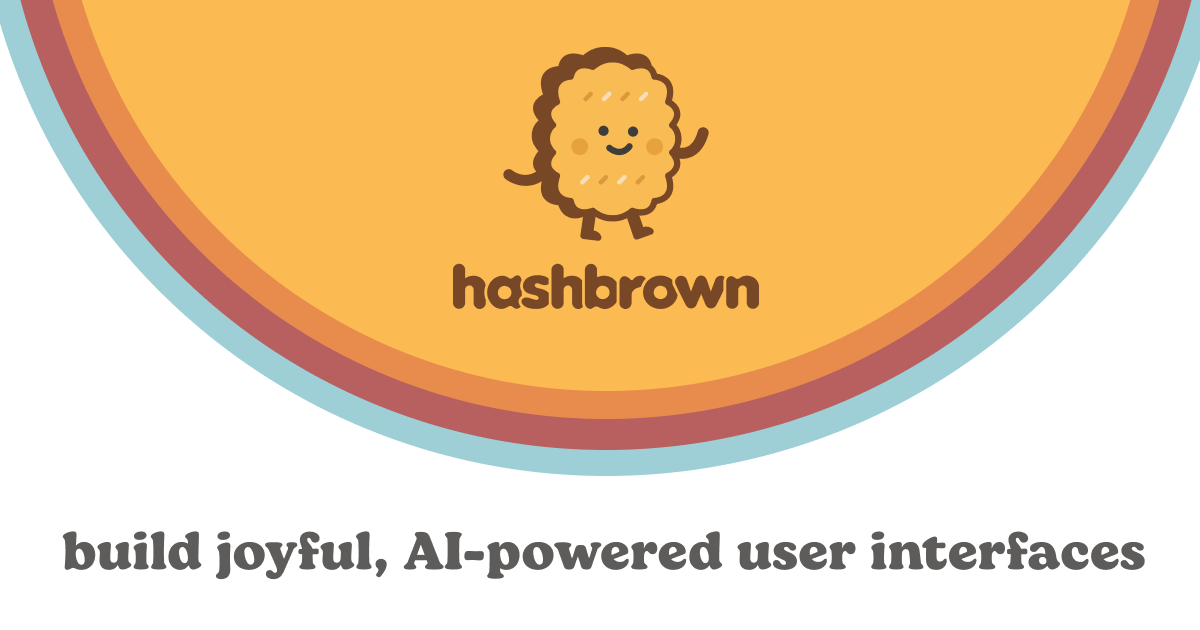
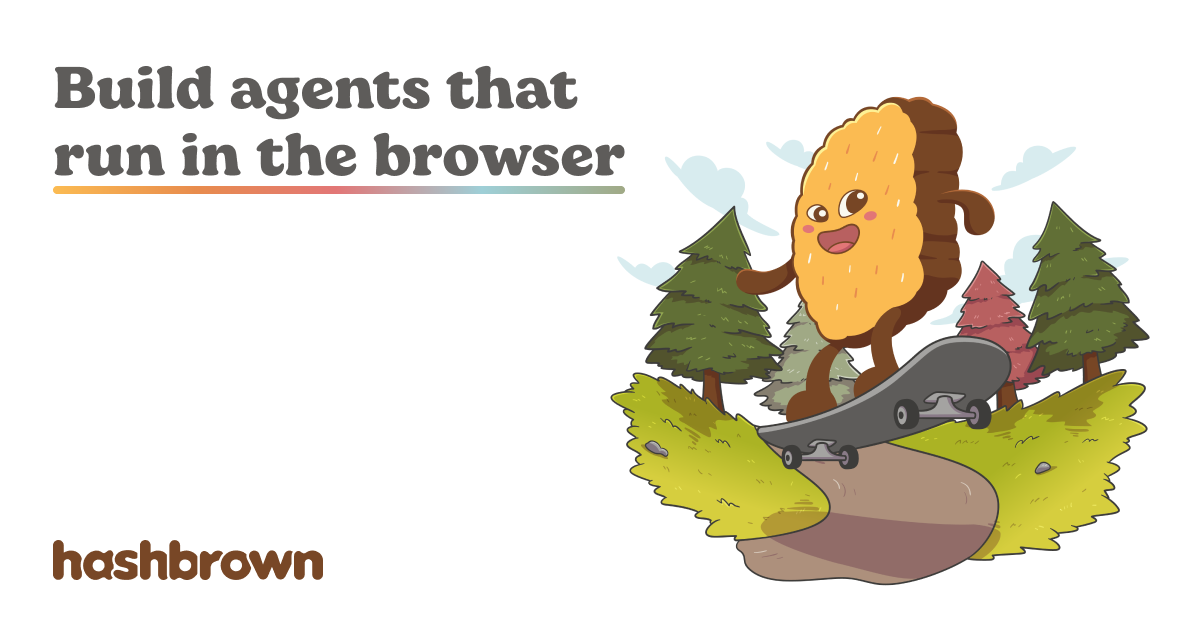
chore: Update the Readme with v0.4 messaging (#441)
## PR Checklist

Please check if your PR fulfills the following requirements:

- [ ] The commit message follows our guidelines:
https://github.com/liveloveapp/hashbrown/blob/main/CONTRIBUTING.md#commit
- [ ] Tests for the changes have been added (for bug fixes / features)
- [ ] Documentation has been added / updated (for bug fixes / features)

## PR Type

What kind of change does this PR introduce?

<!-- Please check the one that applies to this PR using "x". -->

```
[ ] Bugfix
[ ] Feature
[ ] Code style update (formatting, local variables)
[ ] Refactoring (no functional changes, no api changes)
[ ] Build related changes
[ ] CI related changes
[ ] Documentation content changes
[ ] Other... Please describe:
```

## What is the current behavior?

<!-- Please describe the current behavior that you are modifying, or
link to a relevant issue. -->

Closes #

## What is the new behavior?

## Does this PR introduce a breaking change?

```
[ ] Yes
[ ] No
```

<!-- If this PR contains a breaking change, please describe the impact
and migration path for existing applications below. -->

## Other information

diff --git a/README.md b/README.md
@@ -1,10 +1,10 @@
 <h1 align="center">Hashbrown - Build Joyful, AI-Powered User Interfaces</h1>
 
 <p align="center">
-  <img src="www/public/image/logo/brand-mark.svg" alt="Hashbrown Logo" width="144px" height="136px"/>
+  <img src="www/analog/public/image/logo/brand-mark.svg" alt="Hashbrown Logo" width="144px" height="136px"/>
   <br>
-  <em>Hashbrown is an open-source framework for building AI-powered user interfaces
-    <br />that converse with users, dynamically reorganize, and even code themselves.</em>
+  <em>Hashbrown is an open-source framework for 
+    <br />building agents that run in the browser.</em>
   <br>
 </p>
 
@@ -27,7 +27,7 @@
   </a>
 </p>
 
-[What is Hashbrown](#what-is-hashbrown) | [Installation](#installation) | [Getting Started](#getting-started) | [Supported LLM Providers](#supported-llm-providers) | [Features](#features) | [Walkthroughs](#walkthroughs) | [Core Team](#core-team) | [Workshops and Consulting](#workshops-and-consulting)
+[What is Hashbrown](#what-is-hashbrown) | [Installation](#installation) | [Getting Started](#getting-started) | [Supported LLM Providers](#supported-llm-providers) | [Features](#features) | [Walkthroughs](#walkthroughs) | [Core Team](#core-team) | [Consulting](#consulting)
 
 <!-- TODO: embed "marketing" video here when finished-->
 
@@ -35,7 +35,7 @@
 
 ## What Is Hashbrown
 
-Hashbrown is a set of core and framework-specific packages for the UI along with LLM SDK wrappers for Node backends. Hashbrown makes it easy to embed intelligence in individual features and to orchestrate and dynamically update whole applications based on real-time, natural language inputs.
+Hashbrown is a set of core and framework-specific packages for the UI along with LLM SDK wrappers for Node backends. Hashbrown makes it easy to embed intelligence in your React or Angular components. Use Hashbrown to generate user interfaces, turn natural language into structured data, and predict your user's next action.
 
 ## Installation
 
@@ -65,15 +65,11 @@ They include:
 
 - [OpenAI](https://hashbrown.dev/docs/angular/platform/openai)
 - [Azure OpenAI](https://hashbrown.dev/docs/angular/platform/azure)
+- [Anthropic](https://hashbrown.dev/docs/angular/platform/anthropic)
 - [Amazon Bedrock](https://hashbrown.dev/docs/angular/platform/bedrock)
 - [Ollama](https://hashbrown.dev/docs/angular/platform/ollama)
 - [Google Gemini](https://hashbrown.dev/docs/angular/platform/google)
 - [Writer](https://hashbrown.dev/docs/angular/platform/writer)
-
-Coming soon:
-
-- Anthropic
-- Vercel
 
 Note that any model supported by a vendor's SDK will generally be usable via Hashbrown. That said, not all models (especially some older, smaller ones) will be able to handle the full feature set of Hashbrown.
 
@@ -220,39 +216,6 @@ npm install
 npx nx serve kitchen-sink-server && npx nx serve kitchen-sink-angular
 ```
 
-### Cloudflare Pages Deployments
-
-- Finance sample: Functions live in `samples/finance/angular/functions` (auto-detected by Wrangler). Deploy the Angular app plus functions with `npx nx run finance-angular:deploy`, which uses `samples/finance/angular/wrangler.toml`. Set `OPENAI_API_KEY` in the `hashbrown-finance` Pages project; run `npx nx run finance-cloudflare:generate-data` if you want fresh mock ingredient data.
-- Smart Home sample: Functions live in `samples/smart-home/angular/functions` (auto-detected by Wrangler). Deploy the Angular app plus functions with `npx nx run smart-home-angular:deploy`, which uses `samples/smart-home/angular/wrangler.toml`. Set `OPENAI_API_KEY` in the `hashbrown-smart-home` Pages project.
-- Docs site (`www/analog`): `npx nx run www:deploy` builds the site and deploys to Cloudflare Pages using the root `wrangler.toml` (project `hashbrown-www`). Ensure any required secrets like `OPENAI_API_KEY` are configured in the Pages environment.
-
-Setting secrets with Wrangler CLI (Cloudflare Pages):
-
-```shell
-# authenticate once
-npx wrangler login
-# add the OpenAI key to a Pages project (repeat per project)
-npx wrangler pages secret put OPENAI_API_KEY --project-name hashbrown-finance --environment production
-# set it for preview deploys too
-npx wrangler pages secret put OPENAI_API_KEY --project-name hashbrown-finance --environment preview
-```
-
-Use the appropriate `--project-name` (`hashbrown-smart-home`, `hashbrown-www`, etc.) for the app you are deploying. The command prompts for the secret value and stores it for that Pages project.
-Repeat the `--environment production`/`--environment preview` commands for each project so both production and preview builds can access the secret.
-
-## Hashbrown.dev
-
-Run the documentation website locally:
-
-```shell
-nvm use
-npm install
-# If needed, generate build dependencies (i.e. docs from code)
-npx nx run www:collect-docs
-# Run the server
-npx nx serve www
-```
-
 ## Core Team
 
 `hashbrown` is a community effort led by Mike Ryan, Brian Love and Ben Taylor.
@@ -261,11 +224,9 @@ npx nx serve www
 
 hashbrown is a community-driven project. Read our [contributing guidelines](./CONTRIBUTING.md) on how to get involved.
 
-## Workshops and Consulting
+## Consulting
 
-Want to learn how to build Angular and React apps with AI? [Learn more about our workshops](https://hashbrown.dev/workshops).
-
-LiveLoveApp provides hands-on engagement with our AI engineers for architecture reviews, custom integrations, proof-of-concept builds, performance tuning, and expert guidance on best practices. [Learn more about LiveLoveApp](https://liveloveapp.com).
+Hashbrown is built in the open by [LiveLoveApp](https://www.liveloveapp.com). We love building products for the web, and have helped engineering teams across startups, banking, and finance.
 
 ## License
 
